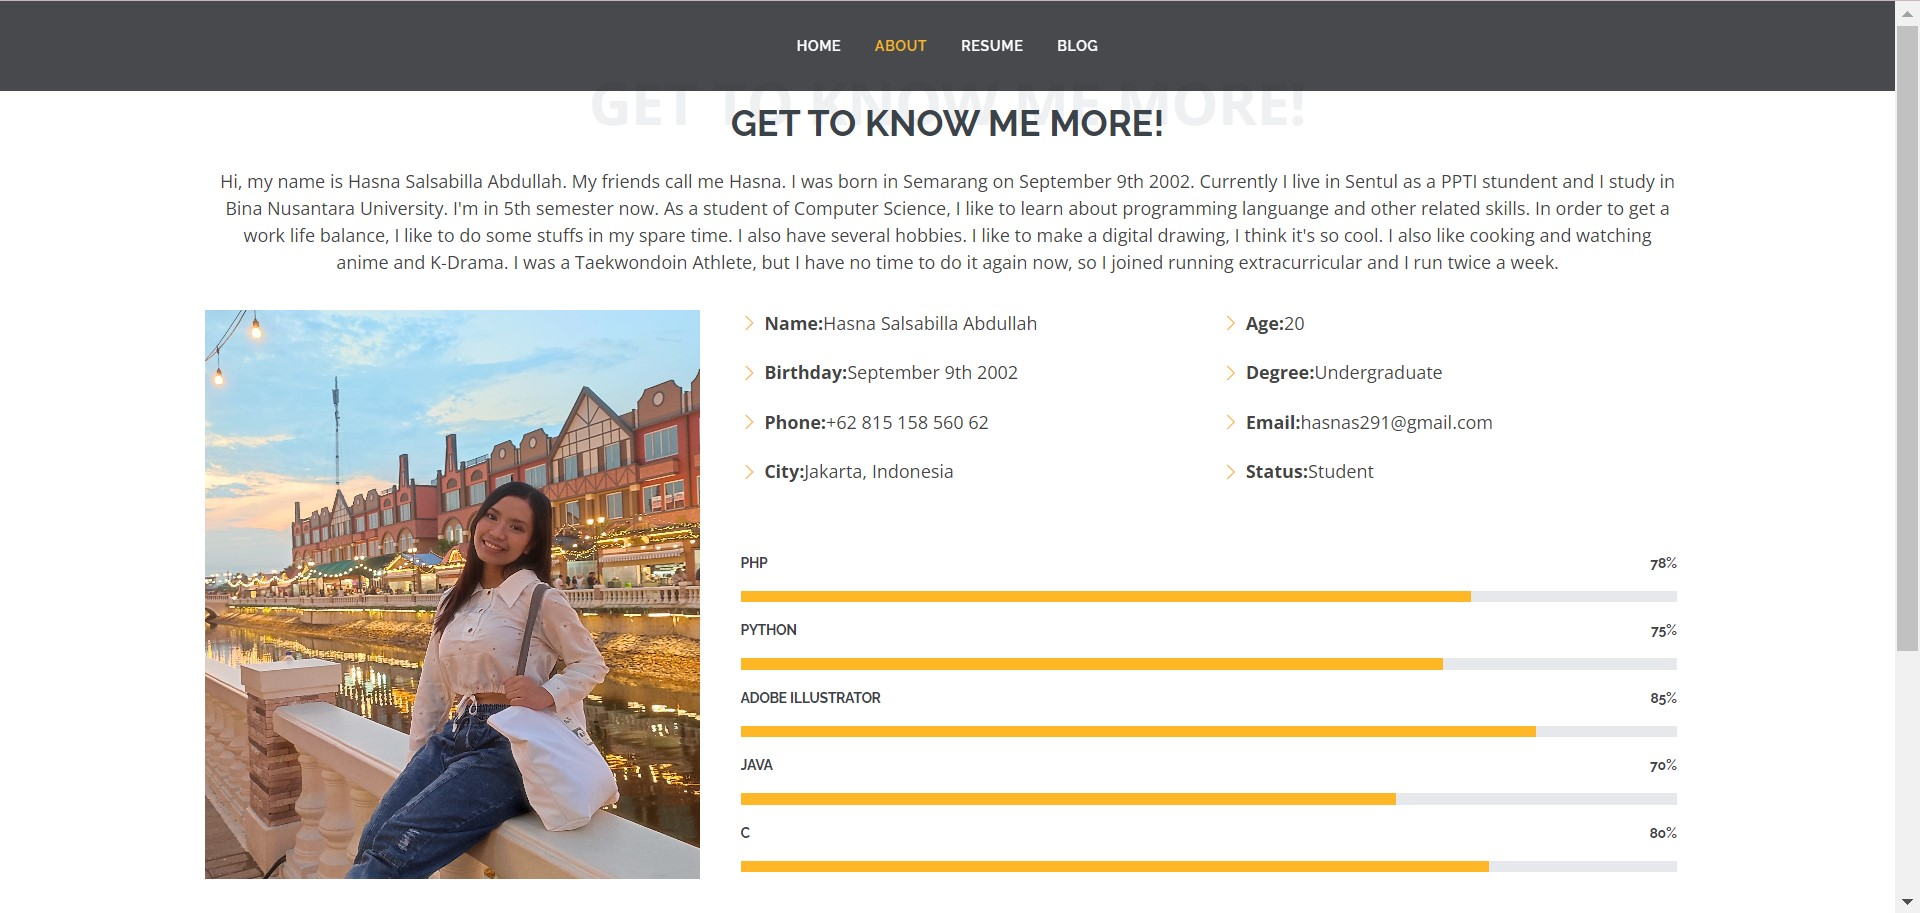
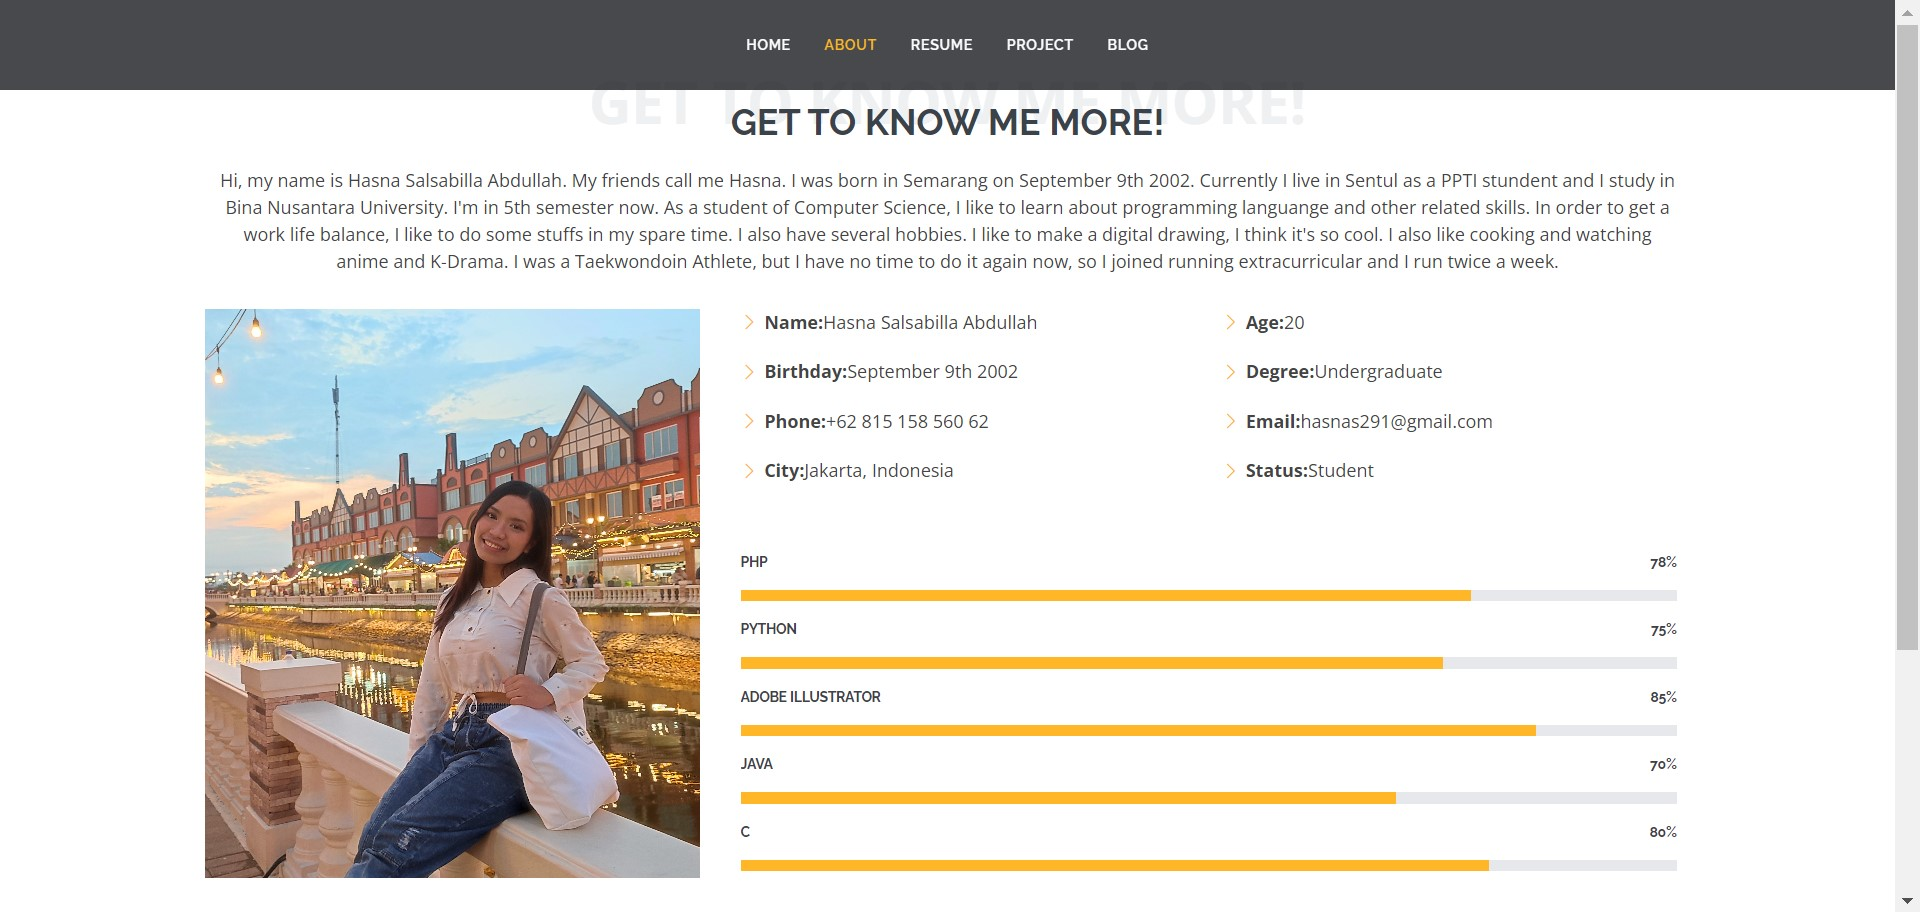
projects

diff --git a/resources/views/project.blade.php b/resources/views/project.blade.php
@@ -1,0 +1,130 @@
+<!DOCTYPE html>
+<html lang="en">
+<head>
+    <meta charset="UTF-8">
+    <meta name="viewport" content="width=device-width, initial-scale=1.0">
+    <meta http-equiv="X-UA-Compatible" content="ie=edge">
+    <title>Project</title>
+
+    <!-- Google Fonts -->
+    <link href="https://fonts.googleapis.com/css?family=Open+Sans:300,300i,400,400i,600,600i,700,700i|Raleway:300,300i,400,400i,500,500i,600,600i,700,700i|Satisfy" rel="stylesheet">
+
+
+    <!-- Bootstrap CSS -->
+    <link rel="stylesheet" href="node_modules/bootstrap/dist/css/bootstrap.min.css">
+    <link href="node_modules/bootstrap-icons/bootstrap-icons.css" rel="stylesheet">
+    <link href="node_modules/boxicons/css/boxicons.min.css" rel="stylesheet">
+
+    <!-- Template Main CSS File -->
+    <link rel="stylesheet" href="node_modules/bootstrap/dist/css/style.css">
+
+</head>
+<body data-bs-spy="scroll" data-bs-target=".navbar" data-bs-offset="50">
+
+  <!-- ======= Header ======= -->
+  <header id="header" class="fixed-top d-flex justify-content-center align-items-center">
+
+    <nav id="navbar" class="navbar" >
+      <ul>
+        <li><a class="nav-link scrollto " href="/home">Home</a></li>
+        <li><a class="nav-link scrollto " href="/about">About</a></li>
+        <li><a class="nav-link scrollto" href="/resume">Resume</a></li>
+        <li><a class="nav-link scrollto active" href="/project">Project</a></li>
+        <li><a class="nav-link scrollto " href="/blog">Blog</a></li>
+      </ul>
+    </nav><!-- .navbar -->
+  </header><!-- End Header -->
+
+  {{-- KONTEN --}}
+
+
+
+     <!-- ======= My project Section ======= -->
+    <section id="project" class="project">
+        <div class="container">
+  
+          <div class="section-title">
+            <span>My Project</span>
+            <h2>My Project</h2>
+            <p>Below are several project created by me and my team mates.</p>
+          </div>
+    
+
+          <div class="row project-container">
+  
+            <div class="col-lg-4 col-md-6 project-item filter-app">
+              <div class="project-img"><img src="img/blimanagement.jpg" class="img-fluid" alt=""></div>
+              <div class="project-info">
+                <h4>Website App</h4>
+                <p>BLI Management</p>
+                <a href="https://github.com/HasnaChan/blimanagement" ><i class="bx bx-link"></i></a>
+              </div>
+            </div>
+
+
+            <div class="col-lg-4 col-md-6 project-item filter-app">
+                <div class="project-img"><img src="img/facedec.jpg" class="img-fluid" alt=""></div>
+                <div class="project-info">
+                  <h4>AI Project</h4>
+                  <p>FaceDec Face Recognition for Attendance</p>
+                  <a href="https://github.com/HasnaChan/FaceDecProjectAI" ><i class="bx bx-link"></i></a>
+                </div>
+              </div>
+
+            <div class="col-lg-4 col-md-6 project-item filter-app">
+                <div class="project-img"><img src="img/fugemy.jpg" class="img-fluid" alt=""></div>
+                <div class="project-info">
+                  <h4>Lab HCI Website Project</h4>
+                  <p>Fugemy</p>
+                  <a href="https://github.com/HasnaChan/Chrystalia-Hasna" ><i class="bx bx-link"></i></a>
+                </div>
+              </div>
+
+              <div class="col-lg-4 col-md-6 project-item filter-app">
+                <div class="project-img"><img src="img/histopatologi.jpg" class="img-fluid" alt=""></div>
+                <div class="project-info">
+                  <h4>Machine Learning Model</h4>
+                  <p>Histopatology Detection using CNN</p>
+                  <a href="https://github.com/HasnaChan/Histopatology-Detection-Using-CNN-by-AMB1ST" ><i class="bx bx-link"></i></a>
+                </div>
+              </div>
+
+              <div class="col-lg-4 col-md-6 project-item filter-app">
+                <div class="project-img"><img src="img/bokuno.jpg" class="img-fluid" alt=""></div>
+                <div class="project-info">
+                  <h4>Design Portfolio</h4>
+                  <p>Instagram BokuNoStudioSmg Design Portfolio</p>
+                  <a href="https://www.instagram.com/bokunostudiosmg/" ><i class="bx bx-link"></i></a>
+                </div>
+              </div>
+
+              <div class="col-lg-4 col-md-6 project-item filter-app">
+                <div class="project-img"><img src="img/CF.jpg" class="img-fluid" alt=""></div>
+                <div class="project-info">
+                  <h4>Design Portfolio</h4>
+                  <p>CreativeFabrica BokuNoStudioSmg Design Portfolio</p>
+                  <a href="https://www.creativefabrica.com/designer/bokunostudiosmg/" ><i class="bx bx-link"></i></a>
+                </div>
+              </div>
+  
+          </div>
+  
+        </div>
+      </section><!-- End My Project Section -->
+
+  <!-- ======= Footer ======= -->
+  <footer id="footer">
+    <div class="container">
+      <h3>Hasna Salsabilla</h3>
+      <h6>Contact me on:</h6>
+      <div class="social-links">
+        <a href="https://www.instagram.com/salsabilla.hasna/" class="instagram"><i class="bx bxl-instagram"></i></a>
+        <a href="https://www.linkedin.com/in/hasna-salsabilla-abdullah-189914249/s" class="linkedin"><i class="bx bxl-linkedin"></i></a>
+        <a href="https://wa.me/081515856062" class="whatsapp"><i class="bx bxl-whatsapp"></i></a>
+      </div>
+      <div class="">Jl. Pakuan No.3, Sumur Batu, Kec. Babakan Madang, Kabupaten Bogor, Jawa Barat 16810 </div>
+    </div>
+  </footer><!-- End Footer -->
+
+</body>
+</html>

diff --git a/resources/views/resume.blade.php b/resources/views/resume.blade.php
@@ -29,6 +29,7 @@
         <li><a class="nav-link scrollto " href="/home">Home</a></li>
         <li><a class="nav-link scrollto" href="/about">About</a></li>
         <li><a class="nav-link scrollto active" href="/resume">Resume</a></li>
+        <li><a class="nav-link scrollto" href="/project">Project</a></li>
         <li><a class="nav-link scrollto " href="/blog">Blog</a></li>
       </ul>
     </nav><!-- .navbar -->
@@ -110,20 +111,7 @@
               </p>
             </div>
           </div>
-        </div>
-        <h3 class="resume-title">Project</h3>
-            <div class="resume-item">
-              <h4>FaceDec (Attendance Using Face Recognition and Blink)</h4>
-              <p><a href="https://github.com/HasnaChan/FaceDecProjectAI">Klik here to open project</a></p>
-            </div>
-            <div class="resume-item">
-              <h4>Histopatology Detection using CNN</h4>
-              <p><a href="https://github.com/HasnaChan/Histopatology-Detection-Using-CNN-by-AMB1ST">Klik here to open project</a></p>
-            </div>
-            <div class="resume-item">
-              <h4>BLI Management</h4>
-              <p><a href="https://github.com/HasnaChan/blimanagement">Klik here to open project</a></p>
-            </div> 
+        </div> 
       </div>
     </section><!-- End My Resume Section -->
 

diff --git a/resources/views/blog.blade.php b/resources/views/blog.blade.php
@@ -29,6 +29,7 @@
         <li><a class="nav-link scrollto " href="/home">Home</a></li>
         <li><a class="nav-link scrollto " href="/about">About</a></li>
         <li><a class="nav-link scrollto" href="/resume">Resume</a></li>
+        <li><a class="nav-link scrollto" href="/project">Project</a></li>
         <li><a class="nav-link scrollto active" href="/blog">Blog</a></li>
       </ul>
     </nav><!-- .navbar -->
@@ -73,7 +74,7 @@
           </div>
   
         </div>
-      </section><!-- End Frequently Asked Questions Section -->
+      </section><!-- End Blog Section -->
 
   <!-- ======= Footer ======= -->
   <footer id="footer">

diff --git a/resources/views/about.blade.php b/resources/views/about.blade.php
@@ -31,6 +31,7 @@
         <li><a class="nav-link scrollto " href="/home">Home</a></li>
         <li><a class="nav-link scrollto active" href="/about">About</a></li>
         <li><a class="nav-link scrollto" href="/resume">Resume</a></li>
+        <li><a class="nav-link scrollto" href="/project">Project</a></li>
         <li><a class="nav-link scrollto " href="/blog">Blog</a></li>
       </ul>
     </nav><!-- .navbar -->

diff --git a/resources/views/home.blade.php b/resources/views/home.blade.php
@@ -29,6 +29,7 @@
         <li><a class="nav-link scrollto active" href="/home">Home</a></li>
         <li><a class="nav-link scrollto" href="/about">About</a></li>
         <li><a class="nav-link scrollto" href="/resume">Resume</a></li>
+        <li><a class="nav-link scrollto" href="/project">Project</a></li>
         <li><a class="nav-link scrollto " href="/blog">Blog</a></li>
       </ul>
     </nav><!-- .navbar -->

diff --git a/routes/web.php b/routes/web.php
@@ -30,3 +30,7 @@ Route::get('/resume', function () {
 Route::get('/blog', function () {
     return view('blog');
 });
+Route::get('/project', function () {
+    return view('project');
+});
+
